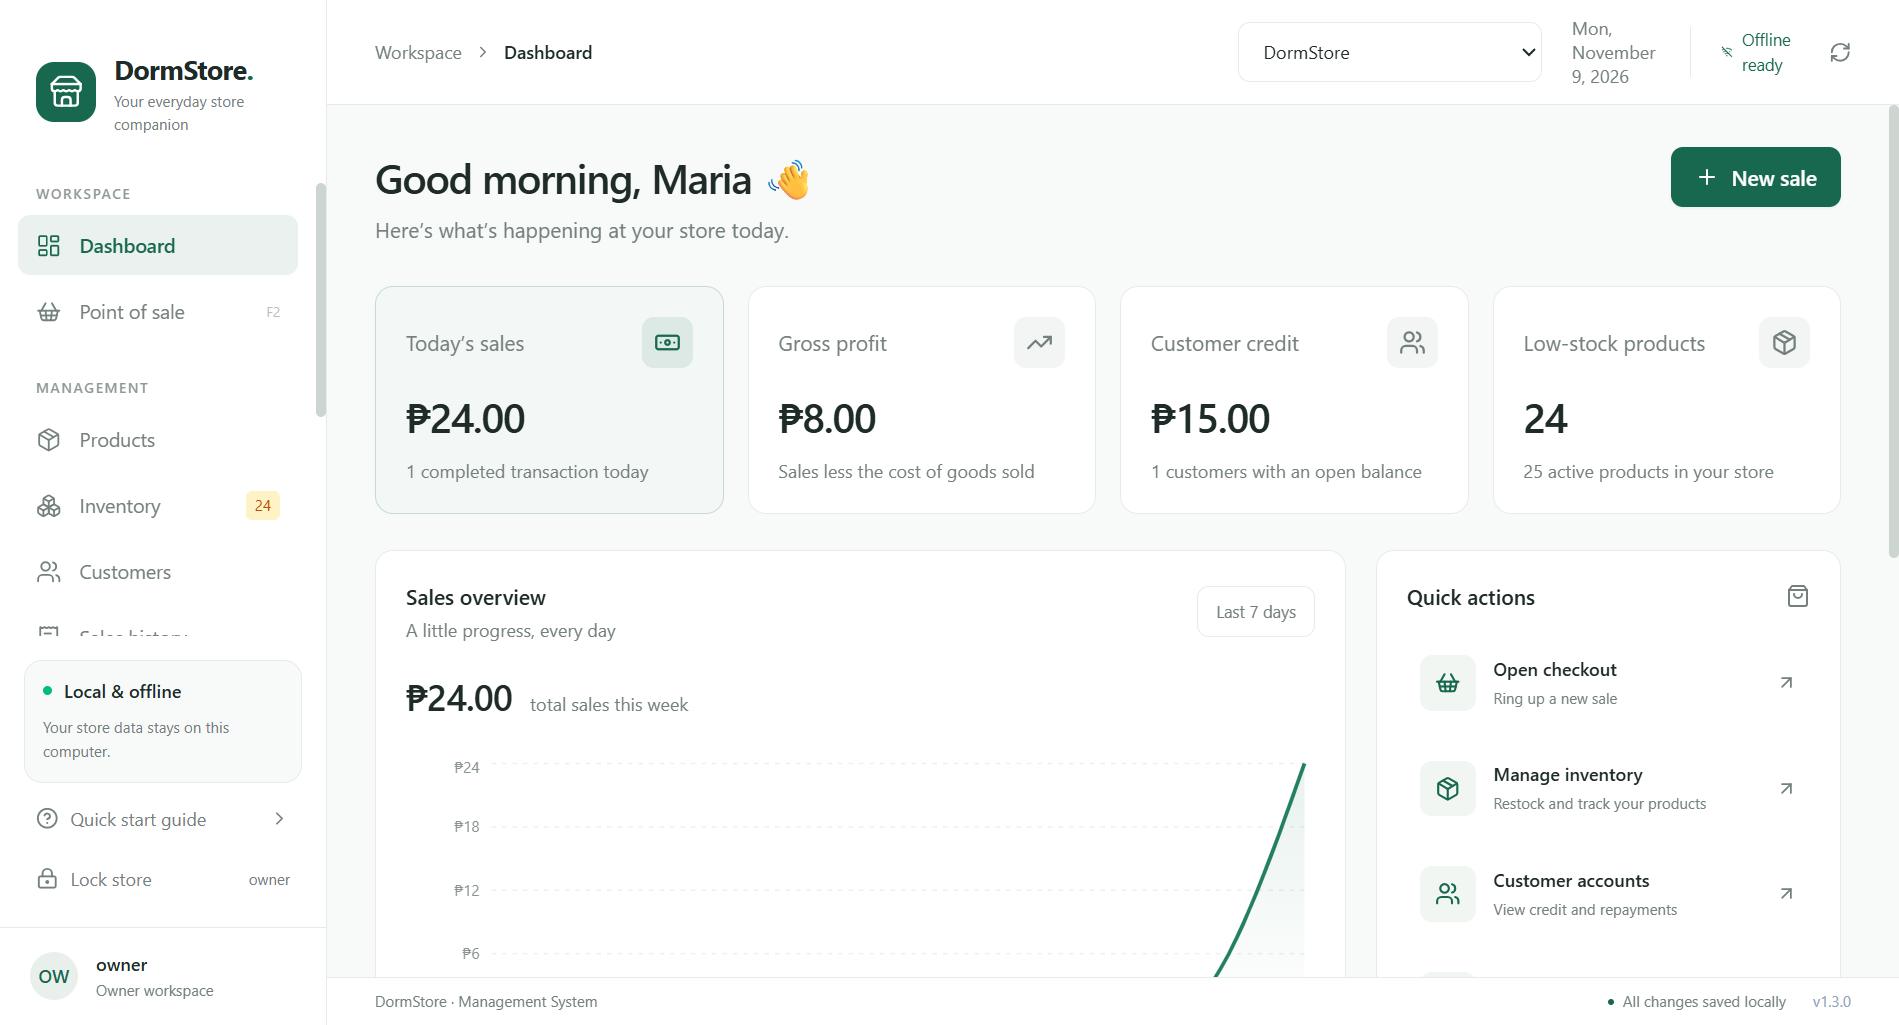
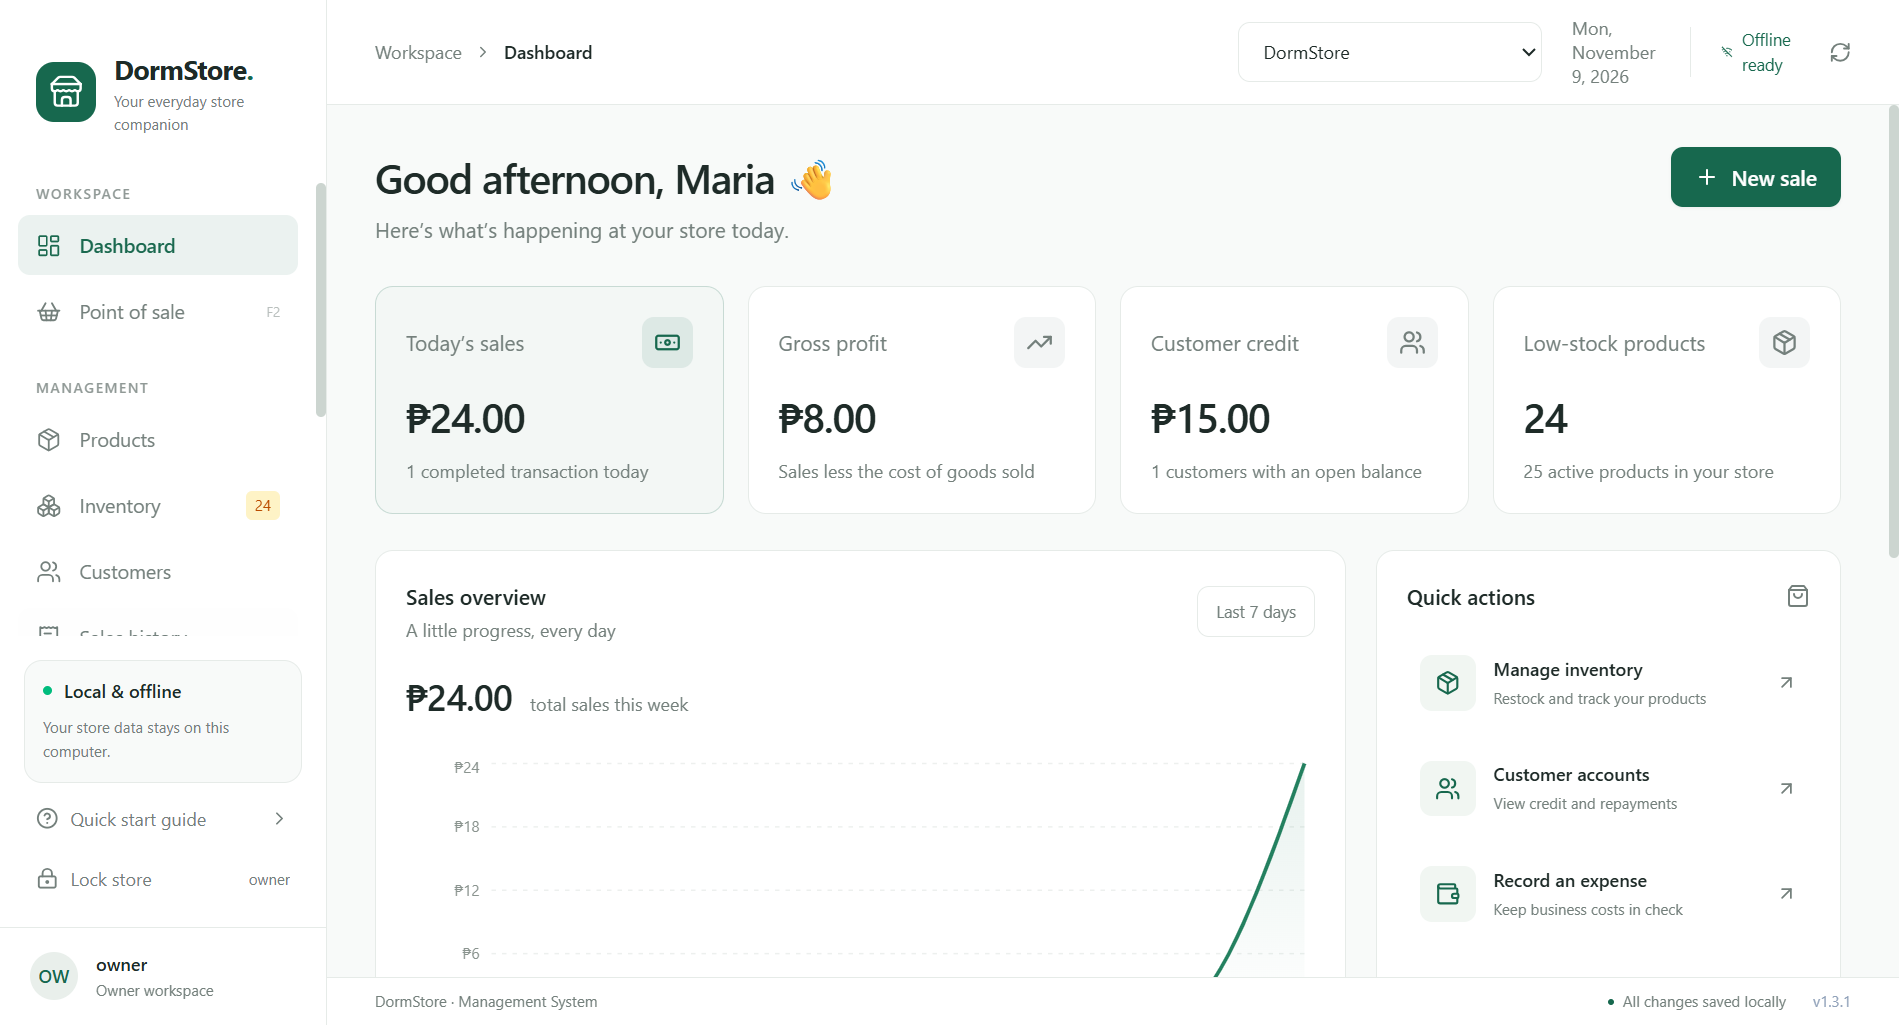
Redesign and remove redundant button in the product page

diff --git a/src/pages/Customers.tsx b/src/pages/Customers.tsx
@@ -1,5 +1,5 @@
 import { useState } from 'react'
-import { Plus, Users, Pencil, ArrowDownLeft, BookOpen } from 'lucide-react'
+import { Plus, Pencil, ArrowDownLeft, BookOpen } from 'lucide-react'
 import type { Customer, CustomerAccount } from '../../shared/contracts'
 import { useStore } from '../context'
 import { useOwner } from '../components/AuthGate'
@@ -177,15 +177,6 @@ export default function Customers() {
           <Empty
             title={data.customers.length ? 'No matching customers' : 'Know your regulars'}
             text="Add customers to track purchases on credit and record their repayments."
-            action={
-              owner &&
-              !data.customers.length && (
-                <Button onClick={() => setEditing('new')}>
-                  <Users />
-                  Add customer
-                </Button>
-              )
-            }
           />
         )}
       </section>

diff --git a/src/components/common.tsx b/src/components/common.tsx
@@ -81,23 +81,14 @@ export function PageTitle({
     </div>
   )
 }
-export function Empty({
-  title,
-  text,
-  action,
-}: {
-  title: string
-  text: string
-  action?: ReactNode
-}) {
+export function Empty({ title, text, icon }: { title: string; text: string; icon?: ReactNode }) {
   return (
     <div className="flex flex-col items-center justify-center px-8 py-14 text-center">
       <div className="mb-4 rounded-2xl bg-muted p-4">
-        <PackageOpen className="text-muted-foreground" size={25} />
+        {icon ?? <PackageOpen className="text-muted-foreground" size={25} />}
       </div>
       <h3 className="font-semibold">{title}</h3>
       <p className="mt-2 max-w-sm text-sm leading-relaxed text-muted-foreground">{text}</p>
-      {action && <div className="mt-5">{action}</div>}
     </div>
   )
 }

diff --git a/src/pages/Dashboard.tsx b/src/pages/Dashboard.tsx
@@ -8,7 +8,6 @@ import {
   Package,
   AlertTriangle,
   Wallet,
-  ShoppingBasket,
 } from 'lucide-react'
 import {
   ResponsiveContainer,
@@ -154,12 +153,6 @@ export default function Dashboard() {
           </div>
           <div className="space-y-2 p-4">
             {[
-              {
-                title: 'Open checkout',
-                text: 'Ring up a new sale',
-                icon: ShoppingBasket,
-                page: 'Point of sale' as const,
-              },
               {
                 title: 'Manage inventory',
                 text: 'Restock and track your products',

diff --git a/src/pages/Products.tsx b/src/pages/Products.tsx
@@ -274,15 +274,6 @@ export default function Products({ inventory }: { inventory: boolean }) {
                   ? 'Try another search or category.'
                   : 'Add a product with its cost, selling price and opening stock.'
               }
-              action={
-                owner &&
-                !data.products.length && (
-                  <Button onClick={() => setEditing('new')}>
-                    <Plus />
-                    Add product
-                  </Button>
-                )
-              }
             />
           )}
         </section>

diff --git a/src/App.tsx b/src/App.tsx
@@ -394,7 +394,7 @@ function Workspace() {
             <span>{data.settings.store_name} · Management System</span>
             <span className="flex items-center gap-1.5">
               <span className="size-1 rounded-full bg-primary" />
-              All changes saved locally <span className="ml-3 text-slate-400">v1.3.0</span>
+              All changes saved locally <span className="ml-3 text-slate-400">v1.3.1</span>
             </span>
           </footer>
         </div>

diff --git a/src/pages/Settings.tsx b/src/pages/Settings.tsx
@@ -173,7 +173,7 @@ export default function Settings({ onRestore }: { onRestore: () => void }) {
               <span className="break-all">{data.databasePath}</span>
             </p>
             <p className="mt-2 text-[10px] text-muted-foreground">
-              DormStore Management System · Version 1.3.0 · Philippine peso (PHP)
+              DormStore Management System · Version 1.3.1 · Philippine peso (PHP)
             </p>
           </div>
         </section>

diff --git a/src/pages/Sales.tsx b/src/pages/Sales.tsx
@@ -145,7 +145,7 @@ export default function Sales() {
           <Empty
             title="A fresh sales book"
             text="Complete your first checkout to see its receipt, payment details and totals here."
-            action={<ReceiptText className="text-primary/40" size={24} />}
+            icon={<ReceiptText className="text-muted-foreground" size={25} />}
           />
         )}
       </div>

diff --git a/VALIDATION.md b/VALIDATION.md
@@ -1,8 +1,19 @@
 # Validation record
 
-Date: November 9, 2026. App version: 1.3.0. Host: Windows 11 x64 (build 22621). Development Node.js: 24.21.0. App runtime: Electron 45.2.3; better-sqlite3 13.0.3. Dependency versions are recorded in `package-lock.json`.
+Date: November 9, 2026. App version: 1.3.1. Host: Windows 11 x64 (build 22621). Development Node.js: 24.21.0. App runtime: Electron 45.2.3; better-sqlite3 13.0.3. Dependency versions are recorded in `package-lock.json`.
+
+## Version 1.3.1 upgrade check
+
+- The packaged executable and installer report version 1.3.1. The application ID, product name, database locations and `deleteAppDataOnUninstall: false` setting are unchanged.
+- A consistent SQLite copy of an isolated 1.3.0 desktop test profile was opened by the packaged 1.3.1 executable. The existing owner password worked, the workspace showed v1.3.1, and saved products, sales and customers were accessible.
+- After closing 1.3.1, every business table was compared with its baseline using row counts and SHA-256 digests of ordered rows. All business records, account credential rows, shop membership and schema versions were unchanged. Authentication activity logs are expected to record the new sign-in and are excluded from the unchanged-account comparison.
+- Only test databases were copied; Chromium cache/lock files were excluded and the test directory used inherited Windows permissions. The owner's normal store profile was never opened or modified by the test.
+- Upgrade result: `test-output/upgrade-1.3.1-result.json`. UI release notes: [CHANGELOG.md](CHANGELOG.md).
+- The full fresh-profile owner/staff workflow passed on the packaged 1.3.1 executable with zero renderer errors. Desktop assertion waits allow 30 seconds for secure password operations on a slow test host; the original five-second assertion window was insufficient in the first run.
 
 ## Completed
+
+The 48 database/authentication/shop integration tests below passed for the 1.3.0 baseline. Version 1.3.1 changes renderer UI, the desktop driver and release metadata; the database, authentication and shop-isolation implementation is unchanged. The additional upgrade verification above checks preservation of existing data in the new executable.
 
 - TypeScript strict checking and production main/preload/renderer builds.
 - **19 passing database integration tests** inside Electron's Node runtime, including actual temporary SQLite files:
@@ -31,12 +42,12 @@ Date: November 9, 2026. App version: 1.3.0. Host: Windows 11 x64 (build 22621). 
   - Actual application close/relaunch preserving sales, debt and settings.
 - **Independent owner/shop desktop workflow** uses a separate fresh profile: creates Owner 1's products, customers, debt sale and staff; registers Owner 2 through the sign-in UI and verifies an empty private shop; rejects foreign shop/account/audit/file access; sells identical SKUs with overlapping local IDs independently; rejects Owner 1's backup in Owner 2's shop; adds/switches Owner 2's branch through the UI; confirms and clears a cart on switching; verifies Owner 1's unchanged records and valid same-shop restore; signs in staff assigned only to Owner 1's shop; and confirms both Owner 2 shops remain intact. Zero renderer errors. Results: `test-output/shops-e2e-result.json`.
 - Captured and reviewed screenshots of private shops, account management, security activity, setup/sign-in, dashboard, reports and checkout. Test results and images are under `test-output/`. Desktop screenshots use Electron's native visible-page capture, with background throttling disabled only in the test driver, to avoid browser screenshot capture timeouts on this host.
-- Prettier check passed for the source; a fresh `npm.cmd audit` reported **zero known vulnerabilities** after the security update. A scoped minimatch override remains in place for build tooling.
+- Prettier check passed for the source. The 1.3.0 dependency audit reported **zero known vulnerabilities**; 1.3.1 does not change dependencies. A scoped minimatch override remains in place for build tooling.
 - Electron Builder generated a Windows x64 NSIS installer and unpacked application, including the native SQLite module and app icon.
 
 ## Packaged executable
 
-**Passed:** the full owner/staff desktop workflow suite was run against the final 1.3.0 `release/win-unpacked/DormStore Management System.exe`, including real close/relaunch, permission denials, data redaction, account disabling/unlocking, security activity, authentication rate limiting, and zero renderer errors. Results are recorded in `test-output/packaged-e2e-result.json`. The desktop script can target the packaged executable with:
+**Passed:** the full owner/staff desktop workflow suite was run against the final 1.3.1 `release/win-unpacked/DormStore Management System.exe`, including real close/relaunch, permission denials, data redaction, account disabling/unlocking, security activity, authentication rate limiting, and zero renderer errors. Results are recorded in `test-output/packaged-e2e-result.json`. The desktop script can target the packaged executable with:
 
 ```powershell
 $env:DORMSTORE_TEST_EXE = (Resolve-Path 'release/win-unpacked/DormStore Management System.exe').Path
@@ -44,13 +55,13 @@ node scripts/e2e.mjs
 node scripts/shops-e2e.mjs
 ```
 
-**Passed:** the independent-owner and multi-shop suite also ran against the same final 1.3.0 packaged executable. All three shops retained their own records, foreign-shop access and restores were rejected, shop switching cleared drafts, assigned staff stayed in their shop, and no renderer errors occurred. Results: `test-output/packaged-shops-e2e-result.json`.
+**1.3.0 baseline passed:** the independent-owner and multi-shop suite ran against the 1.3.0 packaged executable. All three shops retained their own records, foreign-shop access and restores were rejected, shop switching cleared drafts, assigned staff stayed in their shop, and no renderer errors occurred. Results: `test-output/packaged-shops-e2e-result.json`. These backend paths are unchanged in 1.3.1; this release adds the existing-profile upgrade check and reruns the full owner/staff workflow described above.
 
 The same application workflows run with a fresh test profile. Dialog selections are supplied programmatically; the real main-process file handlers and database operations run.
 
-Final installer: `release/DormStore-Setup-1.3.0-x64.exe`.
+Final installer: `release/DormStore-Setup-1.3.1-x64.exe`.
 
-The installer checksum is recorded in `release/DormStore-Setup-1.3.0-x64.exe.sha256` after packaging.
+The installer checksum is recorded in `release/DormStore-Setup-1.3.1-x64.exe.sha256` after packaging.
 
 ## Release checks requiring target hardware or credentials
 

diff --git a/README.md b/README.md
@@ -10,7 +10,7 @@
 </p>
 
 <p align="center">
-  <a href="#installation"><img src="docs/images/badges/version.svg" alt="Version 1.3.0" /></a>
+  <a href="#installation"><img src="docs/images/badges/version.svg" alt="Version 1.3.1" /></a>
   <a href="#installation"><img src="docs/images/badges/platform.svg" alt="Target platform: Windows 10 and 11 x64" /></a>
   <a href="#data-and-recovery"><img src="docs/images/badges/storage.svg" alt="Local SQLite storage" /></a>
   <a href="VALIDATION.md"><img src="docs/images/badges/validated.svg" alt="48 integration tests passed in the documented validation run" /></a>
@@ -136,7 +136,9 @@ An owner can manage several shops. Staff stay assigned to one shop, and every bu
 
 ### For store users
 
-If the repository maintainer has published a GitHub Release, download its `DormStore-Setup-1.3.0-x64.exe` installer from the repository's **Releases** section. Run it, choose the installation folder and open DormStore from the desktop shortcut. On first launch, create an owner account and shop, then save your recovery code privately.
+If the repository maintainer has published a GitHub Release, download its `DormStore-Setup-1.3.1-x64.exe` installer from the repository's **Releases** section. Run it, choose the installation folder and open DormStore from the desktop shortcut. On first launch, create an owner account and shop, then save your recovery code privately.
+
+To update an existing installation, save a backup of each shop, close DormStore and run the new setup installer using the same Windows account. Accounts and shop databases remain in the Windows user-data folder, separate from the application files. Version 1.3.1 contains UI cleanup and does not change the database schema. See [CHANGELOG.md](CHANGELOG.md) for release notes.
 
 The installed application needs no Node.js, npm, database server or internet connection. Windows 10/11 x64 are the configured targets; validation on this workspace was performed on Windows 11. See [the validation record](VALIDATION.md) for hardware and release checks.
 
@@ -162,7 +164,7 @@ npm.cmd run pack           # Unpacked Windows application in release/win-unpacke
 npm.cmd run dist           # Windows x64 NSIS installer in release
 ```
 
-Install the generated `release/DormStore-Setup-1.3.0-x64.exe` on the store computer. The installer allows choosing the installation directory and creates a desktop shortcut. Node.js and npm are not needed by the installed application. The installer preserves store data on uninstall. Existing usernames, passwords, recovery codes and lockout state are retained. If no account exists, first launch asks you to create the initial owner and shop. Downgrading to an older app is unsupported.
+Install the generated `release/DormStore-Setup-1.3.1-x64.exe` on the store computer. The installer allows choosing the installation directory and creates a desktop shortcut. Node.js and npm are not needed by the installed application. The installer preserves store data on uninstall. Existing usernames, passwords, recovery codes and lockout state are retained. If no account exists, first launch asks you to create the initial owner and shop. Downgrading to an older app is unsupported.
 
 When upgrading an existing shared store, the earliest active owner keeps its business records, staff and historical security activity. Every other existing owner keeps their login and receives a new empty private shop. Historical records are never copied between owners. Back up the current store before upgrading and verify the assigned owner before continuing operations.
 

diff --git a/CHANGELOG.md b/CHANGELOG.md
@@ -1,0 +1,14 @@
+# Changelog
+
+## 1.3.1 — November 9, 2026
+
+- Removed duplicate Add product buttons from empty Products and Inventory tables; the header action remains.
+- Removed the duplicate Add customer button from the empty Customers table.
+- Removed the dashboard's Open checkout shortcut, keeping New sale as its checkout action.
+- Replaced the two icons in the empty Sales view with one receipt icon.
+- Updated the desktop workflow to use the remaining Add actions without selecting the first of multiple matches.
+- Allowed up to 30 seconds for desktop assertions so secure password operations can finish on slower test hosts.
+
+This release does not change the business or authentication database schemas. Existing account credentials, shop membership, products, sales, stock, customer balances and expenses are retained when updating the same Windows user profile.
+
+Save shop backups before updating, close DormStore, then run `DormStore-Setup-1.3.1-x64.exe`. After installation, the footer and Settings show version 1.3.1.
